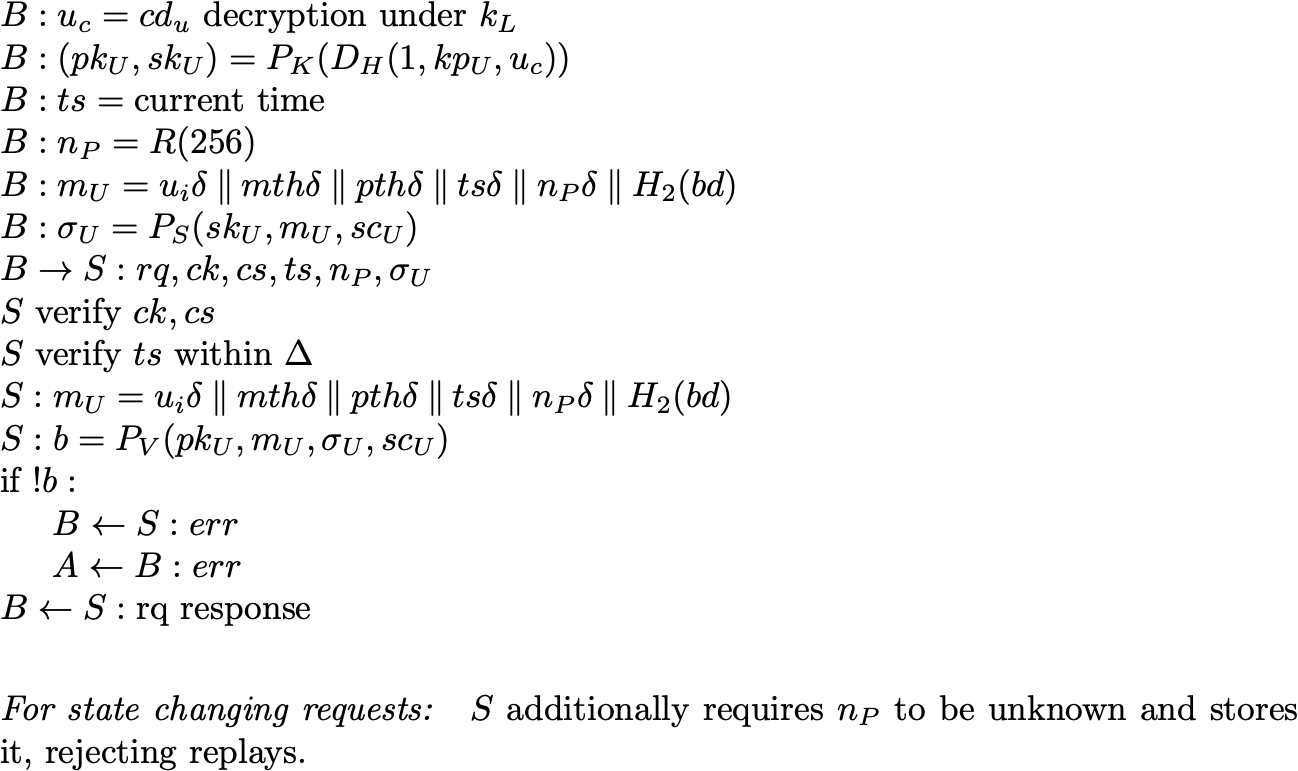
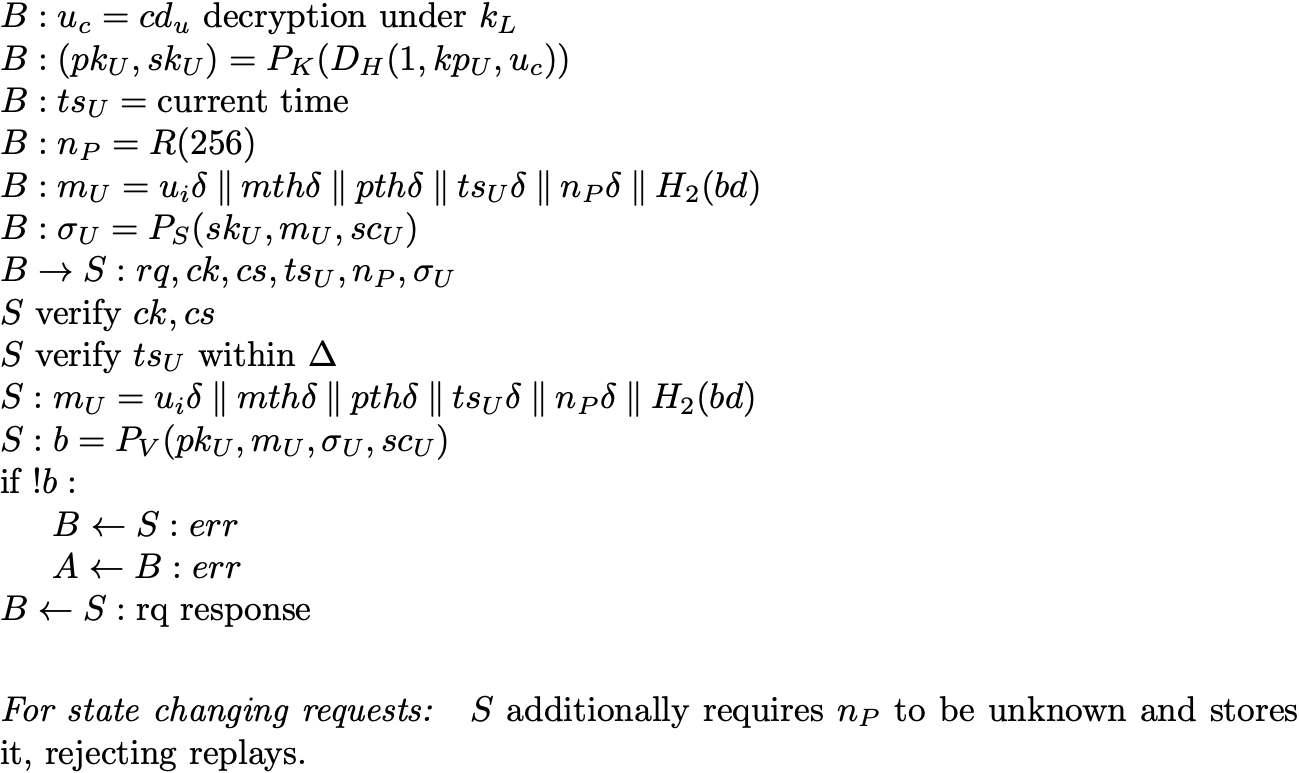
update protocol notation page

diff --git a/apps/web/src/app/help/protocol/protocol7.component.html b/apps/web/src/app/help/protocol/protocol7.component.html
@@ -1,57 +1,69 @@
 <div class="container fat">
   <div class="content">
     <h1>Protocol Description (v7)</h1>
-    <p>Quick Crypt implements the protocols below to encrypt, validate, and decrypt data.
-      This information is provided to help you understand how Quick Crypt works and
-      allow you to assess its strength and trustworthiness. If you believe the protocols can be improved, please
-      <a href="https://github.com/bschick/qcrypt/issues">file a ticket.</a> Also see:
+    <p>
+      Quick Crypt implements the protocols below to encrypt, validate, and
+      decrypt data. This information is provided to help you understand how
+      Quick Crypt works and allow you to assess its strength and
+      trustworthiness. If you believe the protocols can be improved, please
+      <a href="https://github.com/bschick/qcrypt/issues">file a ticket.</a> Also
+      see:
     </p>
     <ul>
-      <li><a href="/assets/protocol7.pdf" download>Searchable pdf protocol notation</a></li>
+      <li>
+        <a href="/assets/protocol7.pdf" download
+          >Searchable pdf protocol notation</a
+        >
+      </li>
       <li><a href="/help/flow">Cipher flow diagrams</a></li>
     </ul>
     <p>
-      Quick Crypt uses WebAuthn (<span class="tip" matTooltip="You can create a
+      Quick Crypt uses WebAuthn (<span
+        class="tip"
+        matTooltip="You can create a
       passkey from a physical FIDO2
       device, a mobile phone, a browser based password manager, or a dedicated password
       manager. Dedicated password managers like Bitwarden and 1Password are
-      the easiest to use, work consistently across devices, and support backup.">Passkeys</span>)
-      to create and authenticate user
-      identities. Since this is a standard protocol described in detail elsewhere,
-      including the
-      <a href="https://developer.mozilla.org/en-US/docs/Web/API/Web_Authentication_API">
-        Mozilla developer network</a>,
-      WebAuthn is described only at a high level
-      to illustrate how user IDs and credentials are created and retrieved for
-      cryptographic functions.
+      the easiest to use, work consistently across devices, and support backup."
+        >Passkeys</span
+      >) to create and authenticate user identities. Since this is a standard
+      protocol described in detail elsewhere, including the
+      <a
+        href="https://developer.mozilla.org/en-US/docs/Web/API/Web_Authentication_API"
+      >
+        Mozilla developer network</a
+      >, WebAuthn is described only at a high level to illustrate how user IDs
+      and credentials are created and retrieved for cryptographic functions.
     </p>
     <h1 class="section">Cipher Data Structure</h1>
     <p>
-      The table below illustrates the byte-level structure of cipher data created by Quick
-      Crypt's version 7 protocol. When output to the browser UI, this data is base64url
-      encoded and displayed as JSON or a URL. When saved to a file, the binary structure is
-      streamed directly to the file. The subscript values below indicate which fields are
-      used to generate and validate the MAC tags.
+      The table below illustrates the byte-level structure of cipher data
+      created by Quick Crypt's version 7 protocol. When output to the browser
+      UI, this data is base64url encoded and displayed as JSON or a URL. When
+      saved to a file, the binary structure is streamed directly to the file.
+      The subscript values below indicate which fields are used to generate and
+      validate the MAC tags.
     </p>
     <p>
-      This structure enables support for file encryption in version 4+. To be compatible with
-      version 1 data, the starting fixed length 256-bit MAC was preserved. If future versions
-      create larger MACs, they may need to be split across the header and payload sections
-      to keep the header length consistent across versions.
+      This structure enables support for file encryption in version 4+. To be
+      compatible with version 1 data, the starting fixed length 256-bit MAC was
+      preserved. If future versions create larger MACs, they may need to be
+      split across the header and payload sections to keep the header length
+      consistent across versions.
     </p>
 
     <table class="bytes">
       <thead>
         <tr>
           <th class="tableheader" colspan="4">Description</th>
-          <th class="tableheader">Variable<br>Length</th>
+          <th class="tableheader">Variable<br />Length</th>
           <th class="tableheader">Format</th>
-          <th class="tableheader">Byte<br>Length</th>
+          <th class="tableheader">Byte<br />Length</th>
         </tr>
       </thead>
       <tbody>
         <tr>
-          <td class="block" rowspan="12">Block0 <br>(one always)</td>
+          <td class="block" rowspan="12">Block0 <br />(one always)</td>
           <td class="header" colspan="2" rowspan="3">Header</td>
           <td class="header">MAC<sub> 0</sub></td>
           <td class="header">no</td>
@@ -72,7 +84,7 @@
         </tr>
         <tr>
           <td class="payload" rowspan="9">Payload</td>
-          <td class="adata" rowspan="8">Additional<br>Data</td>
+          <td class="adata" rowspan="8">Additional<br />Data</td>
           <td class="adata">Flags<sub> 0</sub></td>
           <td class="adata">no</td>
           <td class="adata">bitfield</td>
@@ -128,7 +140,7 @@
           <td class="message">31 - 16777215</td>
         </tr>
         <tr>
-          <td class="block last-row" rowspan="7">BlockN<br>(zero or more)</td>
+          <td class="block last-row" rowspan="7">BlockN<br />(zero or more)</td>
           <td class="header" colspan="2" rowspan="3">Header</td>
           <td class="header">MAC<sub> N</sub></td>
           <td class="header">no</td>
@@ -149,7 +161,7 @@
         </tr>
         <tr>
           <td class="payload last-row" rowspan="4">Payload</td>
-          <td class="adata" rowspan="3">Additional<br>Data</td>
+          <td class="adata" rowspan="3">Additional<br />Data</td>
           <td class="adata">Flags<sub> N</sub></td>
           <td class="adata">no</td>
           <td class="adata">bitfield</td>
@@ -195,16 +207,24 @@
     <img src="/assets/decrypt_b07.png" width="240" height="45" />
     <h2>Block N Decryption by B</h2>
     <img src="/assets/decrypt_bN7.png" width="255" height="187" />
-    <h2><i>u<sub>c</sub></i> Encryption at Rest Variables</h2>
+    <h2>
+      <i>u<sub>c</sub></i> Encryption at Rest Variables
+    </h2>
     <img src="/assets/atrest_variables7.png" width="565" height="779" />
-    <h2><i>k<sub>L</sub></i> Derivation by B</h2>
+    <h2>
+      <i>k<sub>L</sub></i> Derivation by B
+    </h2>
     <img src="/assets/atrest_derivation7.png" width="245" height="66" />
-    <h2><i>u<sub>c</sub></i> Encryption under k by B</h2>
+    <h2>
+      <i>u<sub>c</sub></i> Encryption under k by B
+    </h2>
     <img src="/assets/atrest_encrypt7.png" width="393" height="273" />
-    <h2><i>cd<sub>x</sub></i> Decryption under k by B</h2>
+    <h2>
+      <i>cd<sub>x</sub></i> Decryption under k by B
+    </h2>
     <img src="/assets/atrest_decrypt7.png" width="393" height="252" />
     <h2>Authentication Variables</h2>
-    <img src="/assets/webauthn_variables7.png" width="485" height="822" />
+    <img src="/assets/webauthn_variables7.png" width="485" height="843" />
     <h2>Registration by A</h2>
     <img src="/assets/webauthn_registration7.png" width="649" height="512" />
     <h2>Authentication by A</h2>
@@ -213,8 +233,10 @@
     <img src="/assets/webauthn_authorization7.png" width="649" height="385" />
     <h2>Add Passkey by A</h2>
     <img src="/assets/webauthn_addpk7.png" width="650" height="321" />
+    <h2>Replace Recovery Words by A</h2>
+    <img src="/assets/webauthn_newwords7.png" width="620" height="469" />
     <h2>Recovery from Lost Passkey by A</h2>
-    <img src="/assets/webauthn_recovery7.png" width="649" height="682" />
+    <img src="/assets/webauthn_recovery7.png" width="648" height="937" />
     <app-proto-versions></app-proto-versions>
   </div>
 </div>
